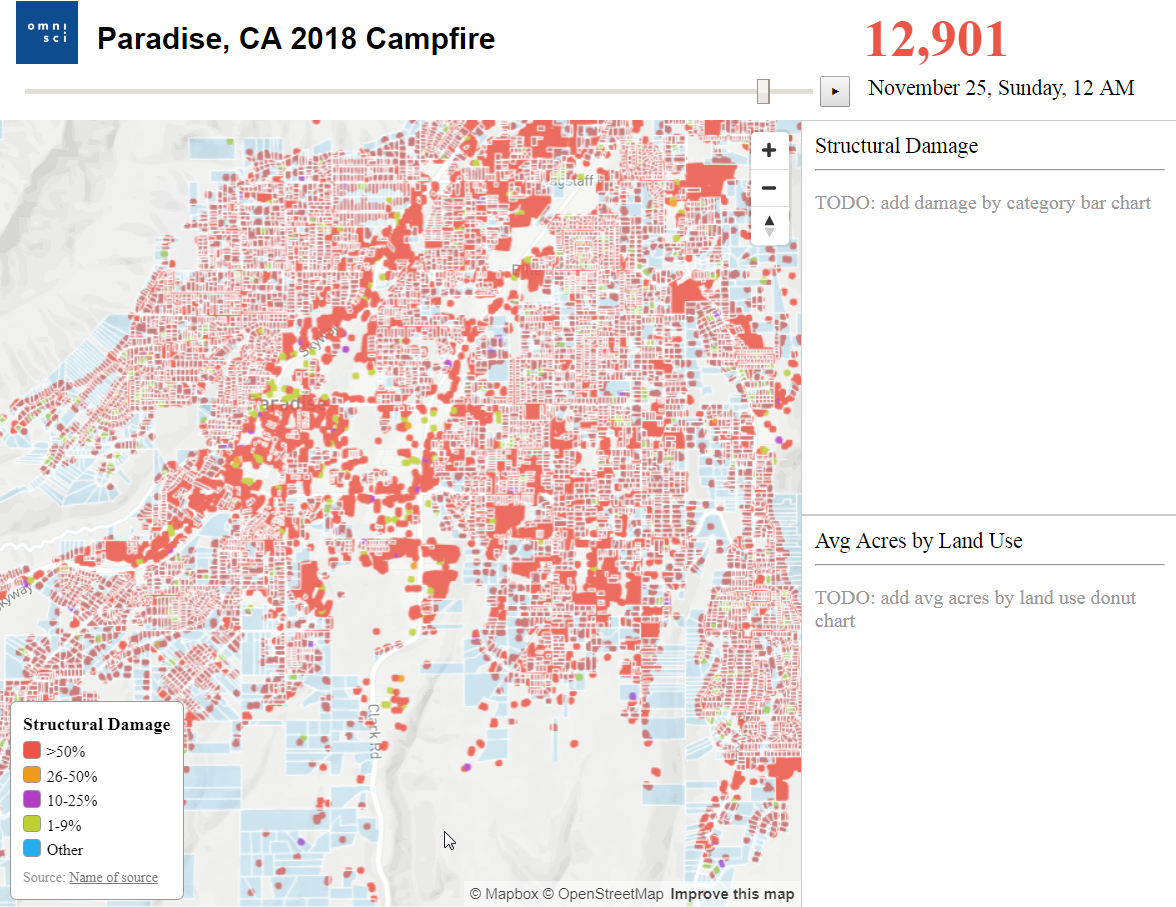
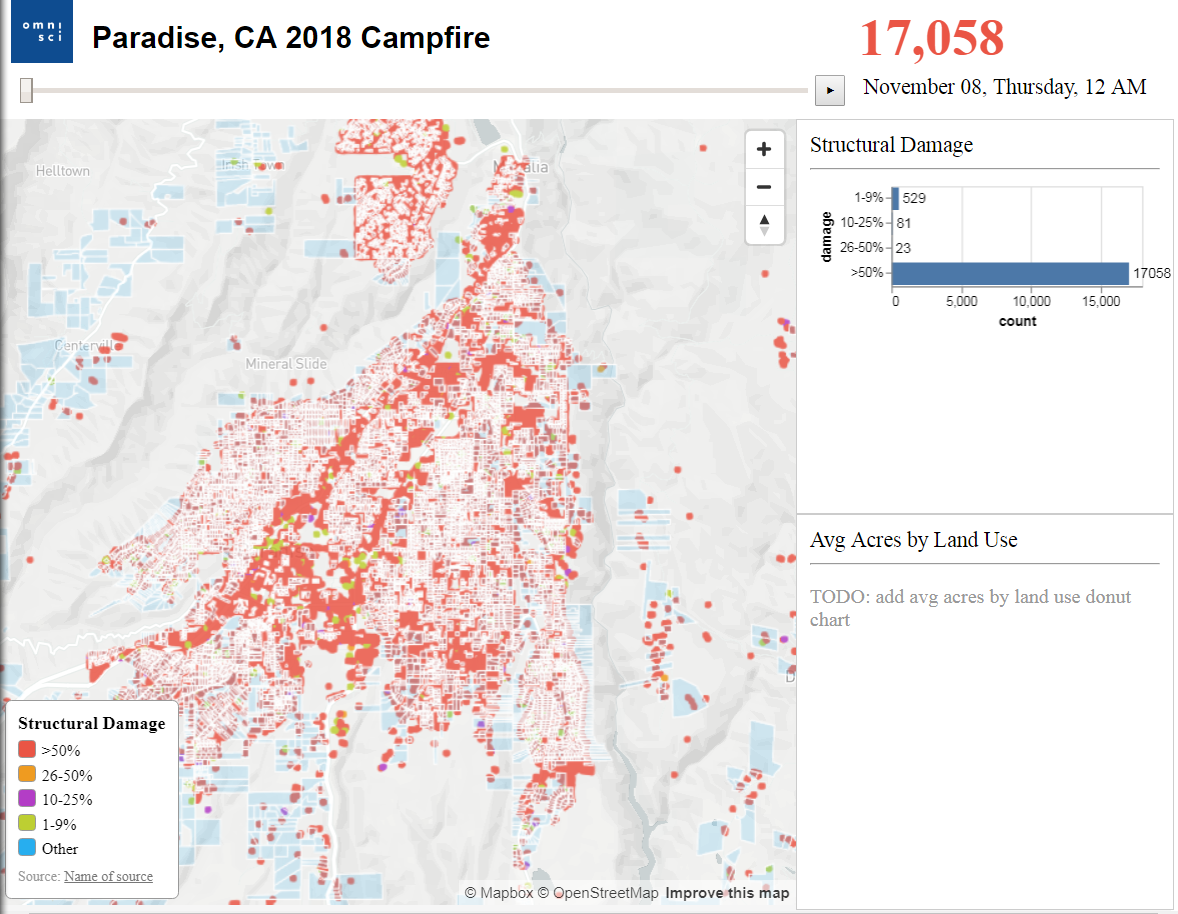
remaped damage data for better bar chart display

diff --git a/src/components/damage-chart.js b/src/components/damage-chart.js
@@ -1,5 +1,5 @@
 import {default as vegaEmbed } from 'vega-embed';
-import { getLabel } from '../common/damage-color-palette';
+import { getLabel, getColor } from '../common/damage-color-palette';
 
 let damageChart = null;
 
@@ -10,16 +10,19 @@ export function initDamageChart() {
 
 export function updateDamageChart(damageData) {
   console.log('damage-chart:updateDamageChart(): damage-data:', damageData);
-  const sortedDamageData = damageData.sort((a, b) => b.val - a.val);
+  const chartData = damageData.sort((a, b) => b.val - a.val)
+    .map(damage => {
+      return {damage: getLabel(damage.key0), color: getColor(damage.key0), count: damage.val};
+    });
   // damage bar chart vega spec
   const vegaSpec = {
     "$schema": "https://vega.github.io/schema/vega-lite/v3.json",
     "data": {
-      "values": sortedDamageData
+      "values": chartData
     },
     "encoding": {
-      "y": {"field": "key0", "type": "ordinal"},
-      "x": {"field": "val", "type": "quantitative"}
+      "y": {"field": "damage", "type": "ordinal"},
+      "x": {"field": "count", "type": "quantitative"}
     },
     "layer": [{
       "mark": "bar"
@@ -31,7 +34,7 @@ export function updateDamageChart(damageData) {
         "dx": 3
       },
       "encoding": {
-        "text": {"field": "val", "type": "quantitative"}
+        "text": {"field": "count", "type": "quantitative"}
       }
     }]
   };

diff --git a/src/common/damage-color-palette.js b/src/common/damage-color-palette.js
@@ -18,6 +18,6 @@ export function getColor(damageCategory) {
   return colorPalette[damageCategory];
 }
 
-export function getLabel(datamageCategory) {
+export function getLabel(damageCategory) {
   return labels[damageCategory];
 }
